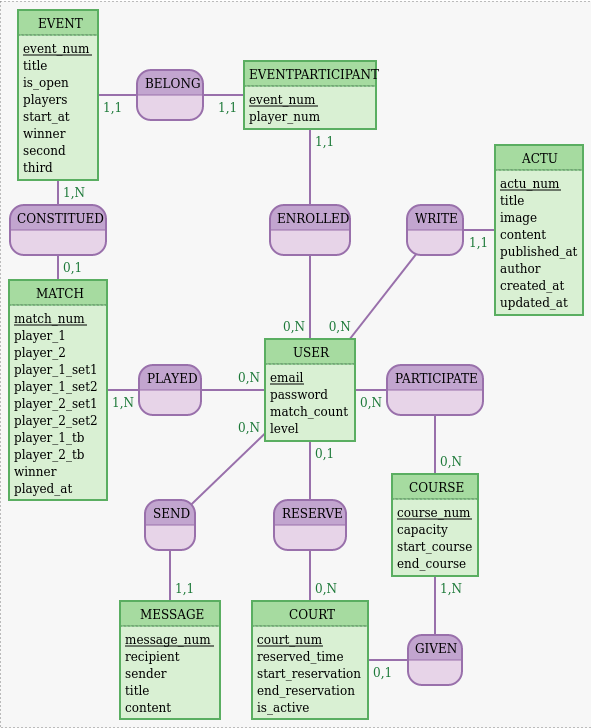
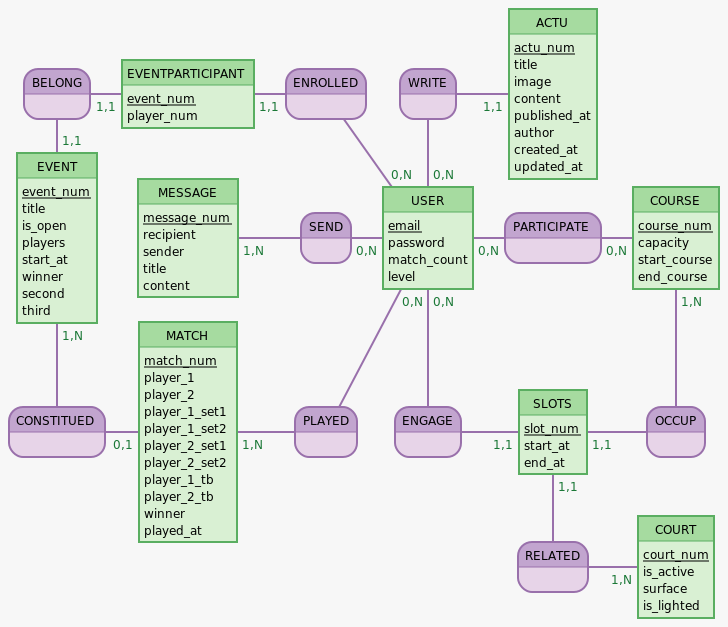
update docs->MCD, before install/configure symfony framework

diff --git a/docs/readme.md b/docs/readme.md
@@ -87,35 +87,33 @@ OpenCourt est une application conçu et pensée pour répondre au besoin de digi
 # MCD (raw)
 
 ```
-EVENT: event_num, title, is_open, players, start_at, winner, second, third
 BELONG, 11 EVENT, 11 EVENTPARTICIPANT
 EVENTPARTICIPANT: event_num, player_num
-:
-:
-
-CONSTITUED, 01 MATCH, 1N EVENT
-:
 ENROLLED, 0N USER, 11 EVENTPARTICIPANT
 WRITE, 11 ACTU, 0N USER
 ACTU: actu_num, title, image, content, published_at, author, created_at, updated_at
+:
 
-MATCH:match_num, player_1, player_2, player_1_set1, player_1_set2, player_2_set1, player_2_set2, player_1_tb, player_2_tb, winner, played_at
-PLAYED, 1N MATCH, 0N USER
+EVENT: event_num, title, is_open, players, start_at, winner, second, third
+MESSAGE: message_num, recipient, sender, title, content
+SEND, 1N MESSAGE, 0N USER
 USER: email, password, match_count, level
 PARTICIPATE, 0N COURSE, 0N USER
-:
-
-:
-SEND, 1N MESSAGE, 0N USER
-RESERVE, 0N COURT, 01 USER
 COURSE: course_num, capacity, start_course, end_course
-:
+
+CONSTITUED, 01 MATCH, 1N EVENT
+MATCH:match_num, player_1, player_2, player_1_set1, player_1_set2, player_2_set1, player_2_set2, player_1_tb, player_2_tb, winner, played_at
+PLAYED, 1N MATCH, 0N USER
+ENGAGE, 0N USER, 11 SLOTS
+SLOTS: slot_num, start_at, end_at
+OCCUP, 11 SLOTS, 1N COURSE
 
 :
-MESSAGE: message_num, recipient, sender, title, content
-COURT: court_num, reserved_time, start_reservation, end_reservation, is_active
-GIVEN, 01 COURT, 1N COURSE
 :
+:
+:
+RELATED, 1N COURT, 11 SLOTS
+COURT: court_num, is_active, surface, is_lighted
 ```
 
 # MCD
